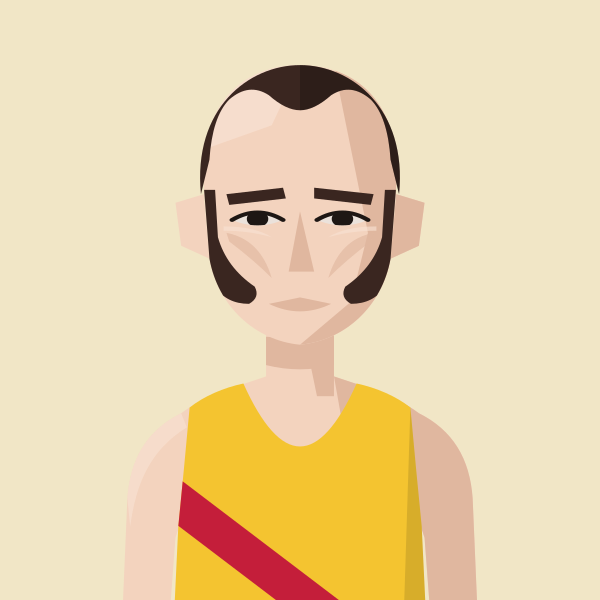
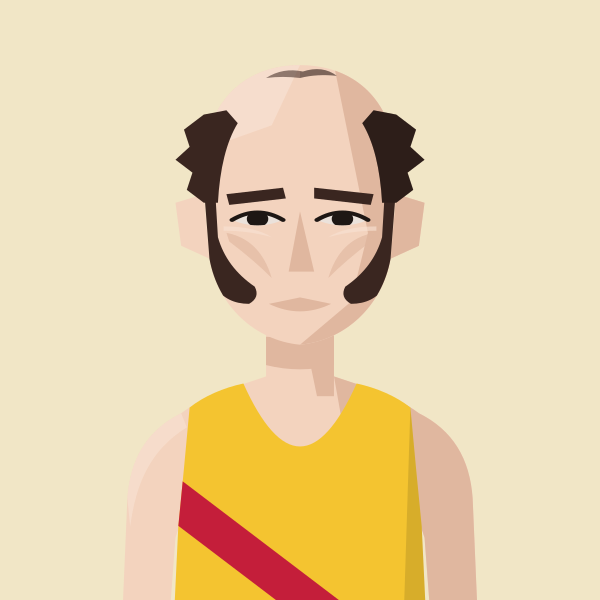
Holt brothers: balding with shaggy sides; Dave in thick black square glasses
Claude-Session: https://claude.ai/code/session_01MgmDWhFqnSSnP4iBLKXUZC

Changed region(s): [[0.3, 0.09, 0.6, 0.33], [0.6, 0.15, 0.72, 0.33]]

diff --git a/files/index.html b/files/index.html
@@ -594,7 +594,7 @@ return m;})();
 const portraitFile=(name,club)=>{const k=normalizeNameForCompare(name||'').replace(/\s*\(([^)]*)\)$/,(m,c)=>CLUBS[c.toUpperCase()]?'':m);const a=PORTRAITS[k];if(a&&a.club===club)return a.file;const b=PORTRAITS[k+'@'+club];return b?b.file:null;};
 // Athlete header figure: superstar portrait if we have one, else a grey runner in the club vest, else the plain vest icon
 // Changes whenever any portrait changes (set by tools/build_og.py), so browsers fetch fresh images instead of old cached ones
-const PORTRAIT_V='647a90f8';
+const PORTRAIT_V='7c1181f0';
 const AthletePortrait=({name,club,w,fill,onClick})=>{const[failed,setFailed]=useState(false);const file=portraitFile(name,club);const src=file?`/portraits/athletes/${file}.svg?v=${PORTRAIT_V}`:PORTRAIT_CLUBS.has(club)?`/portraits/clubs/${club.replace(/\//g,'').replace(/&/g,'and')}.svg?v=${PORTRAIT_V}`:null;if(!src||failed)return<div onClick={onClick} className={onClick?'cursor-pointer':''}><ClubShield club={club} size={w}/></div>;const h=Math.round(w*148/126),ih=Math.round(w*1.4);if(fill)return<div onClick={onClick} className="cursor-pointer" style={{alignSelf:'stretch',minHeight:h,aspectRatio:'126 / 148',flexShrink:0,position:'relative',borderRadius:4,overflow:'hidden'}}><img src={src} alt={file?`Portrait of ${name.replace(/\s*\([^)]*\)$/,'')}`:`Runner in ${CLUBS[club]?.name||club} vest`} style={{position:'absolute',top:0,left:0,display:'block',width:'100%',height:'auto'}} onError={()=>setFailed(true)}/></div>;return<div style={{width:w,height:h,borderRadius:4,overflow:'hidden',flexShrink:0}}><img src={src} alt={file?`Portrait of ${name.replace(/\s*\([^)]*\)$/,'')}`:`Runner in ${CLUBS[club]?.name||club} vest`} width={w} height={ih} style={{display:'block',width:w,height:ih}} onError={()=>setFailed(true)}/></div>;};
 const getClubVestSvg=(club)=>{
   const p="M3 0 L6 0 Q7 4 10 5 Q13 4 14 0 L17 0 L17 20 L3 20 Z";

diff --git a/tools/gen_portraits.py b/tools/gen_portraits.py
@@ -131,6 +131,7 @@ HAIR["messyfringe"] = '<path d="M63,102 L59,76 L62,58 L70,46 L79,41 L82,30 L92,3
 HAIR["wavyback"] = '<path d="M64,108 C60,58 80,38 100,38 C121,38 140,58 136,108 L131,88 Q128,72 117,66 Q108,63 100,64 Q90,63 82,67 Q72,73 69,88 Z"/><path d="M64,96 Q56,104 60,114 Q54,122 60,132 Q56,142 64,148 L68,140 Q64,132 67,124 Q63,116 67,108 Z"/><path d="M136,96 Q144,104 140,114 Q146,122 140,132 Q144,142 136,148 L132,140 Q136,132 133,124 Q137,116 133,108 Z"/>'
 HAIR_BACK["wavyback"] = '<path d="M60,90 C58,54 80,36 100,36 C120,36 142,54 140,90 Q148,104 142,118 Q150,132 140,146 Q144,158 132,160 L68,160 Q56,158 60,146 Q50,132 58,118 Q52,104 60,90 Z"/>'
 HAIR["tightbun"] = HAIR["slick"]
+HAIR["shaggyhorseshoe"] = '<path d="M66,104 L60,98 L62,90 L56,84 L61,78 L59,70 L66,63 L74,61 L78,67 Q72,80 71,104 Z"/><path d="M134,104 L140,98 L138,90 L144,84 L139,78 L141,70 L134,63 L126,61 L122,67 Q128,80 129,104 Z"/><path d="M88,46 Q94,41 101,43 Q108,40 113,45 Q106,44 100,46 Q94,45 88,46 Z" opacity=".55"/>'
 HAIR["seventies"] = '<path d="M64,104 Q56,100 58,90 Q52,80 58,70 Q56,56 68,50 Q68,30 84,28 Q92,18 103,22 Q115,16 124,26 Q137,32 140,46 Q151,53 146,66 Q152,78 144,88 Q146,100 136,104 L133,92 C131,82 126,74 118,70 Q110,75 100,72 Q88,77 80,70 Q72,76 68,86 Z"/><g fill="none" stroke="#000" stroke-opacity=".25" stroke-width="1.4" stroke-linecap="round"><path d="M72,50 Q88,40 108,44"/><path d="M114,46 Q130,52 138,68"/></g>'
 HAIR_BACK["seventies"] = '<path d="M62,82 Q52,88 55,100 Q48,110 54,120 Q48,130 56,138 Q54,148 64,150 Q72,154 78,148 L86,146 L86,130 L114,130 L114,146 L122,148 Q128,154 136,150 Q146,148 144,138 Q152,130 146,120 Q152,110 145,100 Q148,88 138,82 Z"/>'
 HAIR["longflow"] = HAIR["longstraight"]
@@ -281,8 +282,8 @@ def figure(kit, mode="custom", skin=1, hair="crop", hair_colour="dark brown", fa
             if hair == "highpony":  # hair tie where the bunch is gathered on top
                 hg.append('<path d="M89,40 Q100,44 111,40 L110,44.5 Q100,48.5 90,44.5 Z" fill="#000" fill-opacity=".35"/>')
     if custom and glasses:
-        gw = "2.2" if glasses_col != "#9A9DA3" else "1.6"
-        lens = '<circle cx="85" cy="111" r="10"/><circle cx="115" cy="111" r="10"/>' if glasses == "round" else '<rect x="74" y="103" width="22" height="17" rx="5"/><rect x="104" y="103" width="22" height="17" rx="5"/>'
+        gw = "4.2" if glasses == "square" else "2.2" if glasses_col != "#9A9DA3" else "1.6"
+        lens = '<circle cx="85" cy="111" r="10"/><circle cx="115" cy="111" r="10"/>' if glasses == "round" else ('<rect x="73" y="102" width="24" height="17" rx="1.5"/><rect x="103" y="102" width="24" height="17" rx="1.5"/>' if glasses == "square" else '<rect x="74" y="103" width="22" height="17" rx="5"/><rect x="104" y="103" width="22" height="17" rx="5"/>')
         hg.append(f'<g fill="#FFFFFF" fill-opacity=".18" stroke="{glasses_col}" stroke-width="{gw}">{lens}</g>'
                   f'<path d="M96,109 Q100,106 104,109 M74,108 L66,106 M126,108 L134,106" fill="none" stroke="{glasses_col}" stroke-width="{gw}"/>')
     if custom and shades:
@@ -516,8 +517,8 @@ save("awilson", figure("DUL", skin=1, hair="quiff", hair_colour="#C98A4E", facia
 save("burthem", figure("HHH", skin=1, hair="tousled", hair_colour="dark brown", facial="beard"))
 save("pettitt", figure("KEN", skin=1, hair="croprecede", hair_colour="mid brown", facial="beard", shades=True))
 # Holt brothers (Herc Wimbledon, 1960s-70s)
-save("bob-holt", figure("H/W", skin=1, hair="croprecede", hair_colour="dark brown", facial="muttonchops", gaunt=True))
-save("dave-holt", figure("H/W", skin=1, hair="quiffrecede", hair_colour="dark brown", facial="muttonchops", gaunt=True))
+save("bob-holt", figure("H/W", skin=1, hair="shaggyhorseshoe", hair_colour="dark brown", facial="muttonchops", gaunt=True))
+save("dave-holt", figure("H/W", skin=1, hair="shaggyhorseshoe", hair_colour="dark brown", facial="muttonchops", gaunt=True, glasses="square", glasses_col="#141414"))
 # women's race, Oct 2026 (race 566)
 LB="#9A6E48"; SB="#B27A4E"; DB="dark brown"
 W = [
